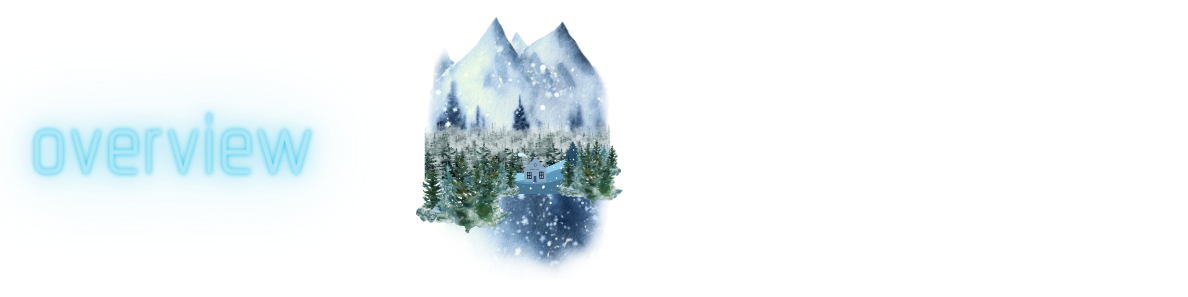
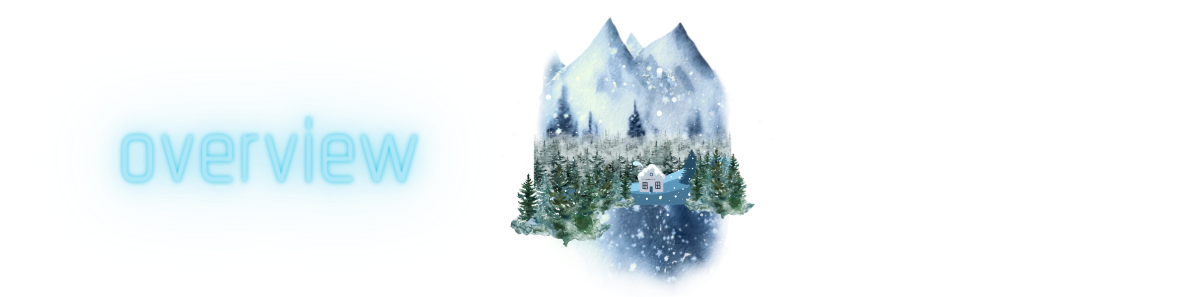
added/updated branding elements

Changed region(s): [[0.0, 0.0606, 0.654, 0.9697]]

diff --git a/README.md b/README.md
@@ -14,6 +14,7 @@
 [![Insomnia Badge](https://img.shields.io/badge/insomnia-grey.svg?&logo=Insomnia&logoColor=white)](https://canva.com/) 
 
 [![Canva Badge](https://img.shields.io/badge/canva-lavender.svg?&logo=Canva&logoColor=white)](https://canva.com/) 
+[![Canva Badge](https://img.shields.io/badge/view:in-darkmode-purple.svg?&logo=Github&logoColor=white)](https://canva.com/) 
 
 
 ### ![table-of-contents](./aurora-lights/branding/toc.png)
@@ -38,8 +39,32 @@
 * [MySQL2](https://www.npmjs.com/package/mysql2) and [Sequelize](https://www.npmjs.com/package/sequelize) packages to connect `STARRY CELLAR STUFF's` Express RESTful API to a MySQL *database*.
 * [dotenv](https://www.npmjs.com/package/dotenv) package to use environment variables to store sensitive data.
 
+### ![installation](./aurora-lights/branding/2.png)
+
+The application is invoked using the following commands:
+
+*Clone the repository in your local development enviorment.*
+
+```
+git clone https://github.com/christiecamp/starry-cellar.git
+```
+
+**Update *.env* with your information**
+
+
+
+#
+
+### ![usage](./aurora-lights/branding/3.png)
+
+**INSTRUCTIONS:**
+
+#
+
 ### ![borea-list](./aurora-lights/branding/11.png)
-![borea-list](./aurora-lights/branding/borea-list.png)
+<p align="center">
+  <img src="./aurora-lights/branding/borea-list.png"/>
+</p>
 
 
 #
